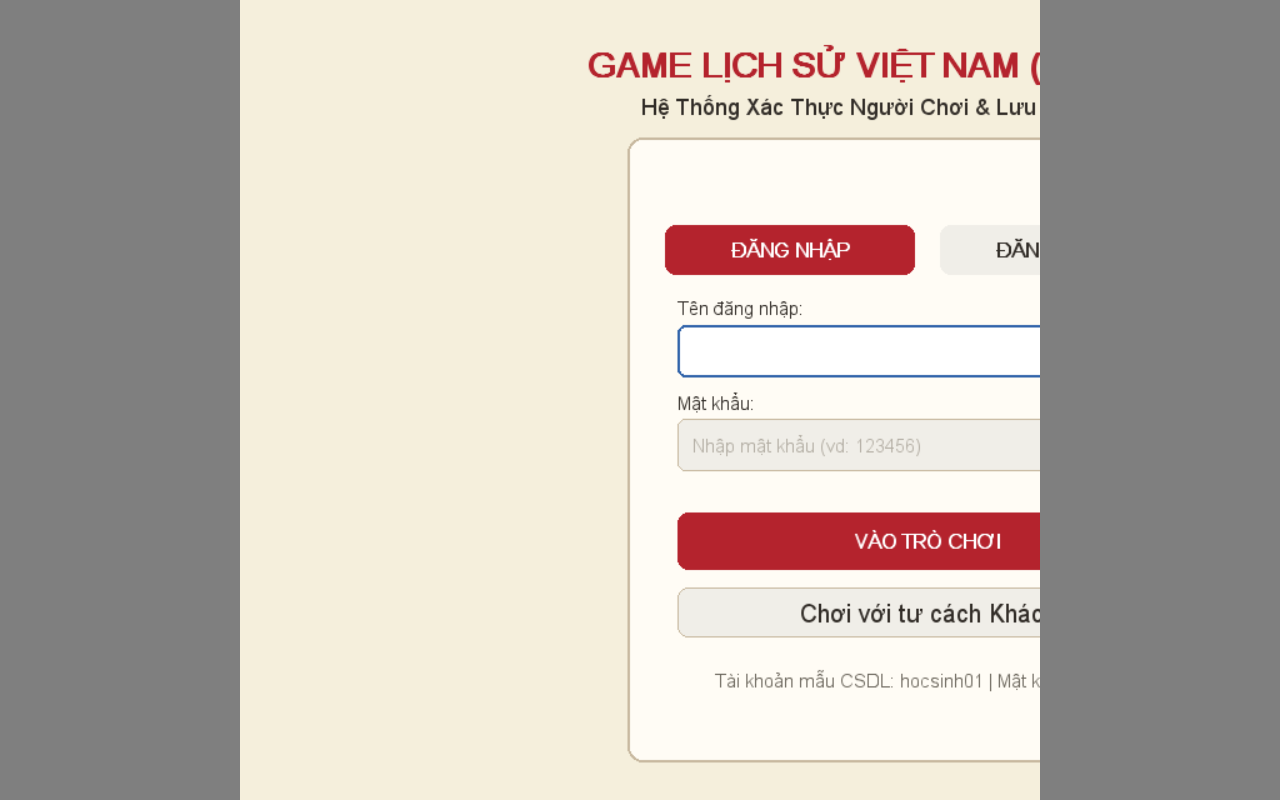
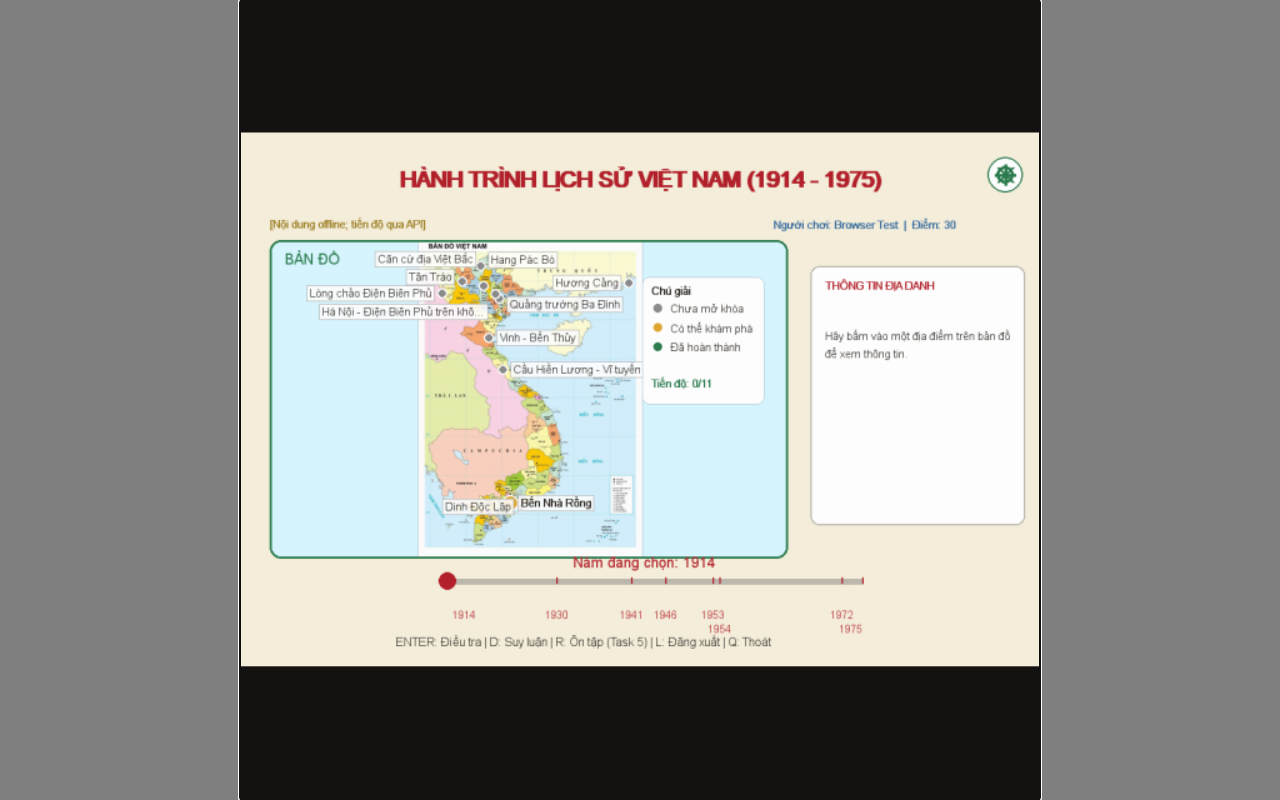
fixx

diff --git a/task5/api_game_data_service.py b/task5/api_game_data_service.py
@@ -1,12 +1,15 @@
 """Adapter có API dữ liệu tương thích cơ bản với GameDataService."""
 from __future__ import annotations
 from typing import Any
+import sys
 from .api_client import ApiClient, ApiClientError
 
 
 class ApiGameDataService:
     def __init__(self, api_url: str, timeout: float = 5.0, fallback_service: Any = None):
         self.client = ApiClient(api_url, timeout)
+        self.async_auth_enabled = sys.platform == "emscripten"
+        self.browser_client = None
         self.fallback_service = fallback_service
         self.current_user = None
         self.locations = getattr(fallback_service, "locations", [])
@@ -42,6 +45,34 @@ class ApiGameDataService:
 
     authenticate = login
 
+    async def authenticate_async(self, username: str, password: str, fullname: str | None = None):
+        """Đăng nhập/đăng ký browser; không gọi urllib hoặc mở kết nối SQL."""
+        from .browser_client import BrowserApiClient
+        if self.browser_client is None:
+            self.browser_client = BrowserApiClient(self.client.base_url, self.client.timeout)
+        endpoint = "/auth/register" if fullname is not None else "/auth/login"
+        payload = {"username": username, "password": password}
+        if fullname is not None:
+            payload["fullname"] = fullname
+        try:
+            data = await self.browser_client.request("POST", endpoint, payload, authenticated=False)
+            token = data["access_token"]
+            user = data["user"]
+            progress = self._decode_progress(data.get("progress", {}))
+            self.browser_client.token = token
+            # Nạp review trước khi áp dụng phiên, tránh callback phiên gọi HTTP đồng bộ.
+            remote = await self.browser_client.request("GET", "/review/me")
+            self._browser_reviews = remote.get("items", [])
+            self.client.token = token
+            self.current_user = user
+            self._progress = progress
+            self.is_connected = True
+            return True, user, progress
+        except (ApiClientError, KeyError, TypeError, ValueError) as exc:
+            self.logout()
+            self.status_message = str(exc)
+            return False, None, self.status_message
+
     def register(self, username, password, fullname):
         return self._auth("/auth/register", {"username": username, "password": password, "fullname": fullname})
 
@@ -54,7 +85,10 @@ class ApiGameDataService:
             self._progress.update(current_loc_id=current_loc_id, max_year=max_year, completed=set(completed_set)); return True, response
         except ApiClientError as exc: return False, str(exc)
 
-    def load_task4_progress(self, user_id): return self.load_user_progress(user_id).get("task4", {})
+    def load_task4_progress(self, user_id):
+        if self.async_auth_enabled:
+            return self._progress.get("task4", {})
+        return self.load_user_progress(user_id).get("task4", {})
 
     def sync_task4_progress(self, user_id, location_id, clue_ids, quiz_attempts):
         task4 = dict(self._progress.get("task4", {})); task4[str(location_id)] = {"clue_ids": sorted(set(clue_ids)), "quiz_attempts": int(quiz_attempts)}
@@ -70,6 +104,9 @@ class ApiGameDataService:
     def get_locations_from_db(self): return self.locations
     def logout(self):
         self.client.token = None
+        if self.browser_client:
+            self.browser_client.token = None
+        self._browser_reviews = []
         self.current_user = None
         self.is_connected = False
         self._progress = {"score": 0, "current_loc_id": 1, "max_year": 1914, "completed": set(), "task4": {}}
@@ -82,7 +119,10 @@ class ApiGameDataService:
         self._progress["score"] = int(result.get("total_score", self._progress["score"]))
         return result
 
-    def get_review_items(self): return self.client.get("/review/me").get("items", [])
+    def get_review_items(self):
+        if self.async_auth_enabled:
+            return list(getattr(self, "_browser_reviews", []))
+        return self.client.get("/review/me").get("items", [])
     def retry_review(self, question_id, choice_index):
         return self.client.post("/review/retry", {"ma_cau_hoi": str(question_id), "dap_an_chon": int(choice_index)})
     def get_leaderboard(self): return self.client.get("/leaderboard", authenticated=False).get("leaderboard", [])

diff --git a/task5/check_web_runtime.py b/task5/check_web_runtime.py
@@ -20,6 +20,7 @@ def main() -> int:
     from playwright.sync_api import sync_playwright
     parser = argparse.ArgumentParser(description=__doc__)
     parser.add_argument("--seconds", type=int, default=60)
+    parser.add_argument("--mock-login", action="store_true", help="Kiểm tra UI login/fetch với HTTP giả, không dùng DB.")
     args = parser.parse_args()
     root = Path(__file__).resolve().parents[1]
     build = root / "build" / "web-source" / "build" / "web"
@@ -50,19 +51,48 @@ def main() -> int:
                 browser = browser_api.chromium.launch(channel="msedge", headless=True)
                 try:
                     page = browser.new_page(viewport={"width": 1280, "height": 800})
+                    auth_requests = []
+                    if args.mock_login:
+                        def login_response(route):
+                            auth_requests.append("login")
+                            route.fulfill(status=200, content_type="application/json", body=json.dumps({
+                                "access_token": "browser-test-token", "user": {"ma_nguoi_dung": 123, "ho_va_ten": "Browser Test"},
+                                "progress": {"score": 30, "current_loc_id": 1, "max_year": 1914, "completed": [], "task4": {}}}))
+                        def review_response(route):
+                            auth_requests.append("review")
+                            route.fulfill(status=200, content_type="application/json", body='{"items":[]}')
+                        page.route("**/auth/login", login_response)
+                        page.route("**/review/me", review_response)
                     page.on("console", lambda msg: messages.append({"type": msg.type, "text": msg.text}))
                     page.on("pageerror", lambda exc: messages.append({"type": "pageerror", "text": str(exc)}))
                     page.goto(url + "/web/", wait_until="domcontentloaded", timeout=30000)
                     page.wait_for_timeout(args.seconds * 1000)
+                    if args.mock_login:
+                        canvas = page.locator("#canvas")
+                        box = canvas.bounding_box()
+                        width, height = canvas.evaluate("c=>[c.width,c.height]")
+                        scale = min(width/1080, height/720)
+                        ox, oy = (width-1080*scale)/2, (height-720*scale)/2
+                        def click(x, y):
+                            canvas.click(position={"x": (ox+x*scale)*box["width"]/width,
+                                                   "y": (oy+y*scale)*box["height"]/height})
+                        click(500, 280)
+                        page.keyboard.type("student", delay=100)
+                        click(500, 355)
+                        page.keyboard.type("test-password", delay=100)
+                        click(500, 432)
+                        page.wait_for_timeout(5000)
                     page.screenshot(path=str(data / "browser-check.png"))
                     # Chứng minh Game đã chạy, không chỉ có canvas loader dựng sẵn.
                     ready = page.evaluate("Boolean(window.task5GameReady)")
                     errors = [m for m in messages if m["type"] == "pageerror"]
                     result = {"first_frame_ready": ready, "page_errors": errors, "messages": messages,
-                              "scope": "Chỉ first-frame; không chứng minh auth, quiz hoặc DB."}
+                              "auth_requests": auth_requests,
+                              "scope": "First-frame và tùy chọn UI login/fetch giả; không chứng minh DB."}
                     (data / "browser-check.json").write_text(json.dumps(result, ensure_ascii=False, indent=2), encoding="utf-8")
-                    print(json.dumps({"first_frame_ready": ready, "page_errors": errors}))
-                    return 0 if ready and not errors else 1
+                    login_ok = not args.mock_login or auth_requests == ["login", "review"]
+                    print(json.dumps({"first_frame_ready": ready, "mock_login_pass": login_ok, "page_errors": errors}))
+                    return 0 if ready and login_ok and not errors else 1
                 finally:
                     browser.close()
         finally:

diff --git a/main.py b/main.py
@@ -75,6 +75,9 @@ class Game:
         self.window_size = parse_window_size()
         self.fullscreen = False
         self.display = pygame.display.set_mode(self.window_size, pygame.RESIZABLE)
+        if sys.platform == "emscripten":
+            # SDL browser có thể ép kích thước khác yêu cầu; scale theo Surface thật.
+            self.window_size = self.display.get_size()
         # Keep a fixed logical canvas so existing scene coordinates/layout remain valid.
         self.screen = pygame.Surface((WIDTH, HEIGHT)).convert()
         pygame.display.set_caption("Game Lịch Sử Việt Nam")
@@ -734,9 +737,10 @@ class Game:
                 self.display = pygame.display.set_mode(self.window_size, pygame.RESIZABLE)
             return
         if event.type in (pygame.MOUSEBUTTONDOWN, pygame.MOUSEBUTTONUP, pygame.MOUSEMOTION):
-            scale = min(self.window_size[0] / WIDTH, self.window_size[1] / HEIGHT)
-            offset_x = (self.window_size[0] - WIDTH * scale) / 2
-            offset_y = (self.window_size[1] - HEIGHT * scale) / 2
+            display_size = self.display.get_size() if sys.platform == "emscripten" else self.window_size
+            scale = min(display_size[0] / WIDTH, display_size[1] / HEIGHT)
+            offset_x = (display_size[0] - WIDTH * scale) / 2
+            offset_y = (display_size[1] - HEIGHT * scale) / 2
             logical_pos = (
                 max(0, min(WIDTH - 1, int((event.pos[0] - offset_x) / scale))),
                 max(0, min(HEIGHT - 1, int((event.pos[1] - offset_y) / scale))),
@@ -1048,12 +1052,13 @@ class Game:
             )
 
         # Preserve the scene's aspect ratio; letterbox instead of stretching text.
-        scale = min(self.window_size[0] / WIDTH, self.window_size[1] / HEIGHT)
+        display_size = self.display.get_size() if sys.platform == "emscripten" else self.window_size
+        scale = min(display_size[0] / WIDTH, display_size[1] / HEIGHT)
         scaled_size = (max(1, round(WIDTH * scale)), max(1, round(HEIGHT * scale)))
         scaled = pygame.transform.smoothscale(self.screen, scaled_size)
         self.display.fill((20, 18, 16))
-        offset = ((self.window_size[0] - scaled_size[0]) // 2,
-                  (self.window_size[1] - scaled_size[1]) // 2)
+        offset = ((display_size[0] - scaled_size[0]) // 2,
+                  (display_size[1] - scaled_size[1]) // 2)
         self.display.blit(scaled, offset)
         pygame.display.flip()
 
@@ -1061,6 +1066,10 @@ class Game:
     # VONG LAP CHINH
     # =================================================================
     def step(self):
+        if self.scene == "login":
+            authentication = self.login_scene.poll_auth_result()
+            if authentication:
+                self.apply_user_session(authentication["user"], authentication["progress"])
         # Đồng hồ bắt đầu lại khi chuyển câu, không gán thời gian cố định cho đáp án.
         if self.scene == "task4_quiz":
             key = (self.scene, self.task4_quiz_index)

diff --git a/tests/test_task5_async_auth.py b/tests/test_task5_async_auth.py
@@ -1,0 +1,64 @@
+"""Hồi quy luồng login async, không dùng mạng hoặc CSDL."""
+import asyncio
+import os
+os.environ.setdefault("SDL_AUDIODRIVER", "dummy")
+import pygame
+from unittest.mock import AsyncMock, Mock
+from task5.api_game_data_service import ApiGameDataService
+from task5.api_client import ApiClientError
+from scenes.login_scene import LoginScene
+
+
+def test_async_auth_loads_session_and_review_without_sync_transport():
+    async def scenario():
+        service = ApiGameDataService("http://test")
+        service.client.post = Mock(side_effect=AssertionError("HTTP đồng bộ bị cấm"))
+        service.browser_client = Mock()
+        service.browser_client.request = AsyncMock(side_effect=[
+            {"access_token": "test-token", "user": {"ma_nguoi_dung": 1}, "progress": {"score": 30}},
+            {"items": [{"id": "q"}]},
+        ])
+        ok, user, progress = await service.authenticate_async("student", "test-password")
+        assert ok and user["ma_nguoi_dung"] == 1 and progress["score"] == 30
+        service.async_auth_enabled = True
+        assert service.get_review_items() == [{"id": "q"}]
+        assert service.load_task4_progress(1) == {}
+        service.logout()
+        assert service.browser_client.token is None
+    asyncio.run(scenario())
+
+
+def test_async_login_scene_polls_and_avoids_duplicate_submission():
+    async def scenario():
+        pygame.font.init()
+        try:
+            service = Mock(async_auth_enabled=True)
+            service.authenticate_async = AsyncMock(return_value=(True, {"ma_nguoi_dung": 1}, {"score": 0}))
+            scene = LoginScene(service)
+            scene.input_login_user.text = "student"
+            scene.input_login_pass.text = "test-password"
+            assert scene.do_login() is None
+            assert scene.do_login() is None
+            assert scene.poll_auth_result() is None
+            await asyncio.sleep(0)
+            result = scene.poll_auth_result()
+            assert result["action"] == "login_success"
+            service.authenticate_async.assert_awaited_once()
+            assert scene.poll_auth_result() is None
+        finally:
+            pygame.font.quit()
+    asyncio.run(scenario())
+
+
+def test_async_auth_failure_clears_partial_token():
+    async def scenario():
+        service = ApiGameDataService("http://test")
+        service.browser_client = Mock()
+        service.browser_client.request = AsyncMock(side_effect=[
+            {"access_token": "test-token", "user": {"ma_nguoi_dung": 1}},
+            ApiClientError("network failure"),
+        ])
+        ok, user, message = await service.authenticate_async("student", "test-password")
+        assert not ok and user is None and "network failure" in message
+        assert service.client.token is None and service.browser_client.token is None
+    asyncio.run(scenario())

diff --git a/scenes/login_scene.py b/scenes/login_scene.py
@@ -1,4 +1,5 @@
 import pygame
+import asyncio
 from services.game_data_service import game_data_service
 
 # Màu sắc giao diện (Đồng bộ với chủ đề trò chơi lịch sử)
@@ -87,6 +88,7 @@ class LoginScene:
         self.mode = "login"  # "login" hoặc "register"
         self.message = ""
         self.message_color = RED
+        self.auth_task = None
 
         # Card chứa Form ở trung tâm (1100 x 700)
         self.card_rect = pygame.Rect(310, 110, 480, 500)
@@ -111,6 +113,28 @@ class LoginScene:
         self.btn_submit = pygame.Rect(350, 410, 400, 46)
         self.btn_guest = pygame.Rect(350, 470, 400, 40)
 
+    def poll_auth_result(self):
+        """Nhận kết quả async trong game loop, không chặn frame đang vẽ."""
+        if self.auth_task is None or not self.auth_task.done():
+            return None
+        task, self.auth_task = self.auth_task, None
+        try:
+            success, user, result = task.result()
+        except Exception as exc:
+            self.message = f"Không đăng nhập được: {exc}"
+            return None
+        if success:
+            self.message = "Đã đăng nhập."
+            return {"action": "login_success", "user": user, "progress": result}
+        self.message = str(result)
+        return None
+
+    def _start_async_auth(self, username, password, fullname=None):
+        if self.auth_task is None:
+            self.message = "Đang kết nối máy chủ…"
+            self.auth_task = asyncio.create_task(self.data_service.authenticate_async(username, password, fullname))
+        return None
+
     def switch_mode(self, new_mode):
         self.mode = new_mode
         self.message = ""
@@ -133,6 +157,8 @@ class LoginScene:
             self.message_color = RED
             return None
 
+        if getattr(self.data_service, "async_auth_enabled", False):
+            return self._start_async_auth(username, password)
         success, user, progress_or_msg = self.data_service.login(username, password)
         if success:
             self.message = f"Xin chào {user.get('ho_va_ten', username)}!"
@@ -157,6 +183,8 @@ class LoginScene:
             self.message_color = RED
             return None
 
+        if getattr(self.data_service, "async_auth_enabled", False):
+            return self._start_async_auth(username, password, fullname)
         success, user, progress_or_msg = self.data_service.register(username, password, fullname)
         if success:
             self.message = "Đăng ký thành công! Đang vào trò chơi..."
@@ -192,7 +220,7 @@ class LoginScene:
         }
 
     def handle_event(self, event):
-        mouse_pos = pygame.mouse.get_pos()
+        mouse_pos = getattr(event, "pos", pygame.mouse.get_pos())
 
         # Xử lý Click chuột
         if event.type == pygame.MOUSEBUTTONDOWN and event.button == 1:

diff --git a/TASK5_ACCEPTANCE.md b/TASK5_ACCEPTANCE.md
@@ -2,6 +2,15 @@
 
 ## Cập nhật sau kiểm tra browser thật
 
+### Cập nhật transport đăng nhập browser
+
+- Đăng nhập/đăng ký trong LoginScene đã chọn coroutine fetch khi chạy Emscripten; game loop poll kết quả, không chặn vẽ.
+- Cache review/progress được nạp qua fetch trước khi áp dụng phiên, tránh gọi urllib đồng bộ trong apply_user_session.
+- Sửa scale/render và click theo kích thước Surface SDL thực, không kích thước cửa sổ yêu cầu bị browser ép.
+- Edge headless đã thao tác bàn phím/chuột bình thường, gửi `/auth/login` và `/review/me` qua fetch (HTTP response giả), vào bản đồ với người chơi Browser Test, điểm 30; không có pageerror. Ảnh `data/browser-auth.png`, kết quả `data/browser-auth-result.json`.
+- Đây là E2E UI + browser transport với HTTP giả, không phải chứng nhận đăng nhập MySQL thật.
+- Các thao tác quiz/retry/save/leaderboard browser còn dùng call-site đồng bộ; chưa nghiệm thu chúng.
+
 - Đã cài Playwright và sử dụng Microsoft Edge headless có sẵn trên máy.
 - `python -m task5.check_web_runtime --seconds 65`: mã thoát 0, `first_frame_ready=true`, `page_errors=[]`.
 - Dấu ready chỉ đặt sau khi `Game.step()` đã chạy một frame; không dựa vào HTTP 200 hay sự tồn tại của canvas loader.

diff --git a/TASK5_STATUS.md b/TASK5_STATUS.md
@@ -21,6 +21,7 @@
 
 - Transport browser vẫn dùng urllib đồng bộ: cần chuyển toàn bộ call-site sang async browser fetch, không chỉ thêm một hàm async rồi bỏ mặc caller.
 - Đã thêm `task5/browser_client.py` async có timeout và kiểm thử giải mã; adapter hiện tại chưa chuyển sang dùng lớp này, không công bố là transport đã hoàn tất.
+- Cập nhật: adapter và LoginScene đã nối fetch cho auth browser, cache review/progress phục vụ áp dụng phiên; Edge UI login với HTTP giả đã vào bản đồ thành công. Quiz/retry/save/leaderboard chưa chuyển xong, không coi toàn bộ transport hoàn tất.
 - Luồng deduction chưa nộp toàn bộ câu hỏi qua API; không thể công bố tất cả điểm game đã authoritative.
 - Quest mới xác minh quiz, chưa chứng thực thu nhặt manh mối/thứ tự mở khóa bằng hành động server-side.
 - Tiến độ client gửi vẫn là dữ liệu tham khảo; cần chính sách xác minh địa điểm/manh mối đầy đủ trước production.
